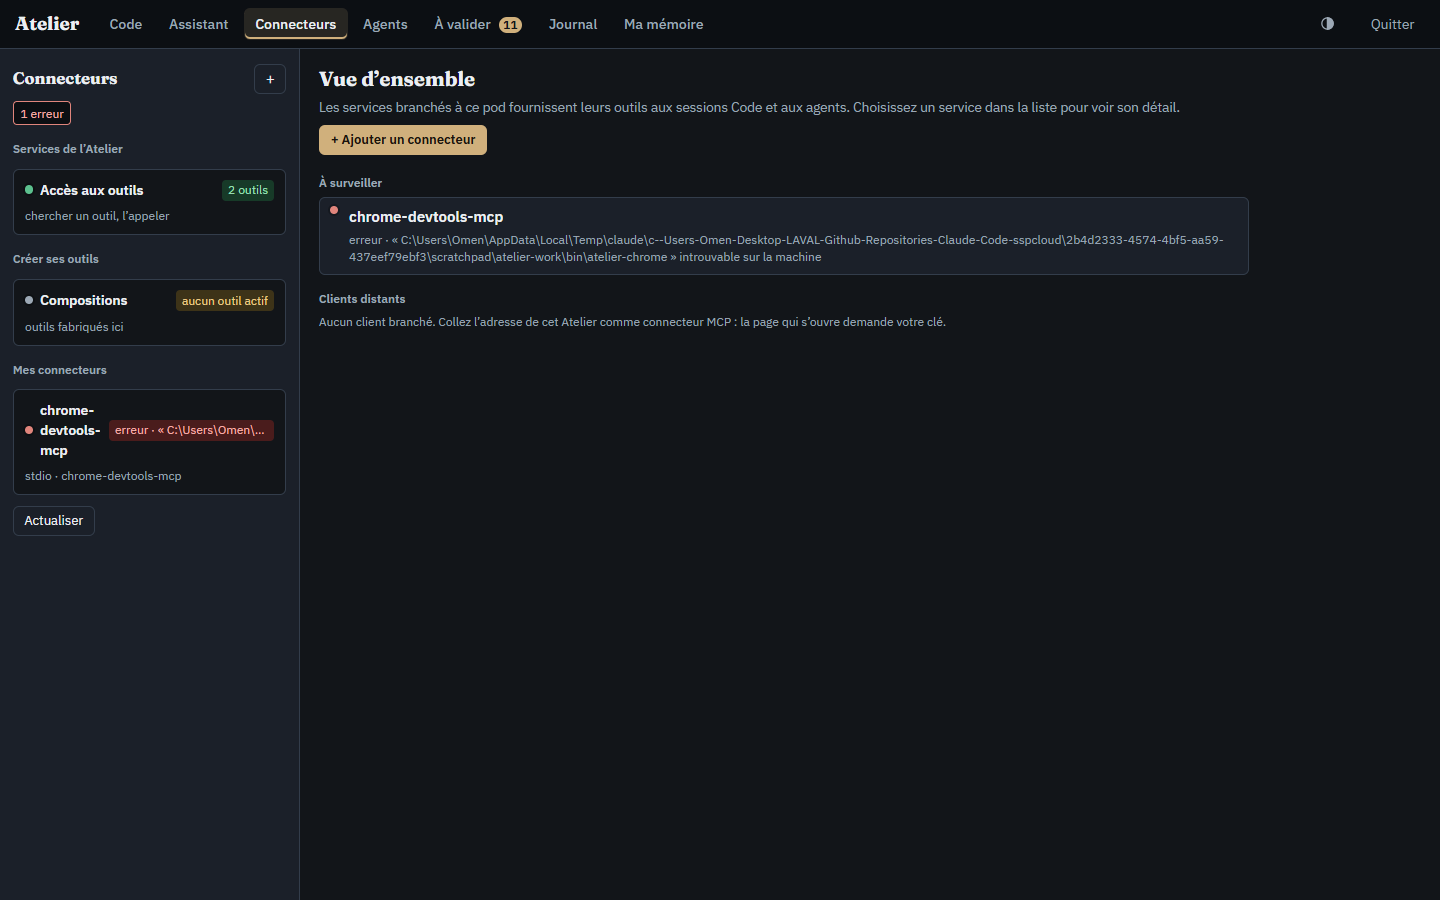
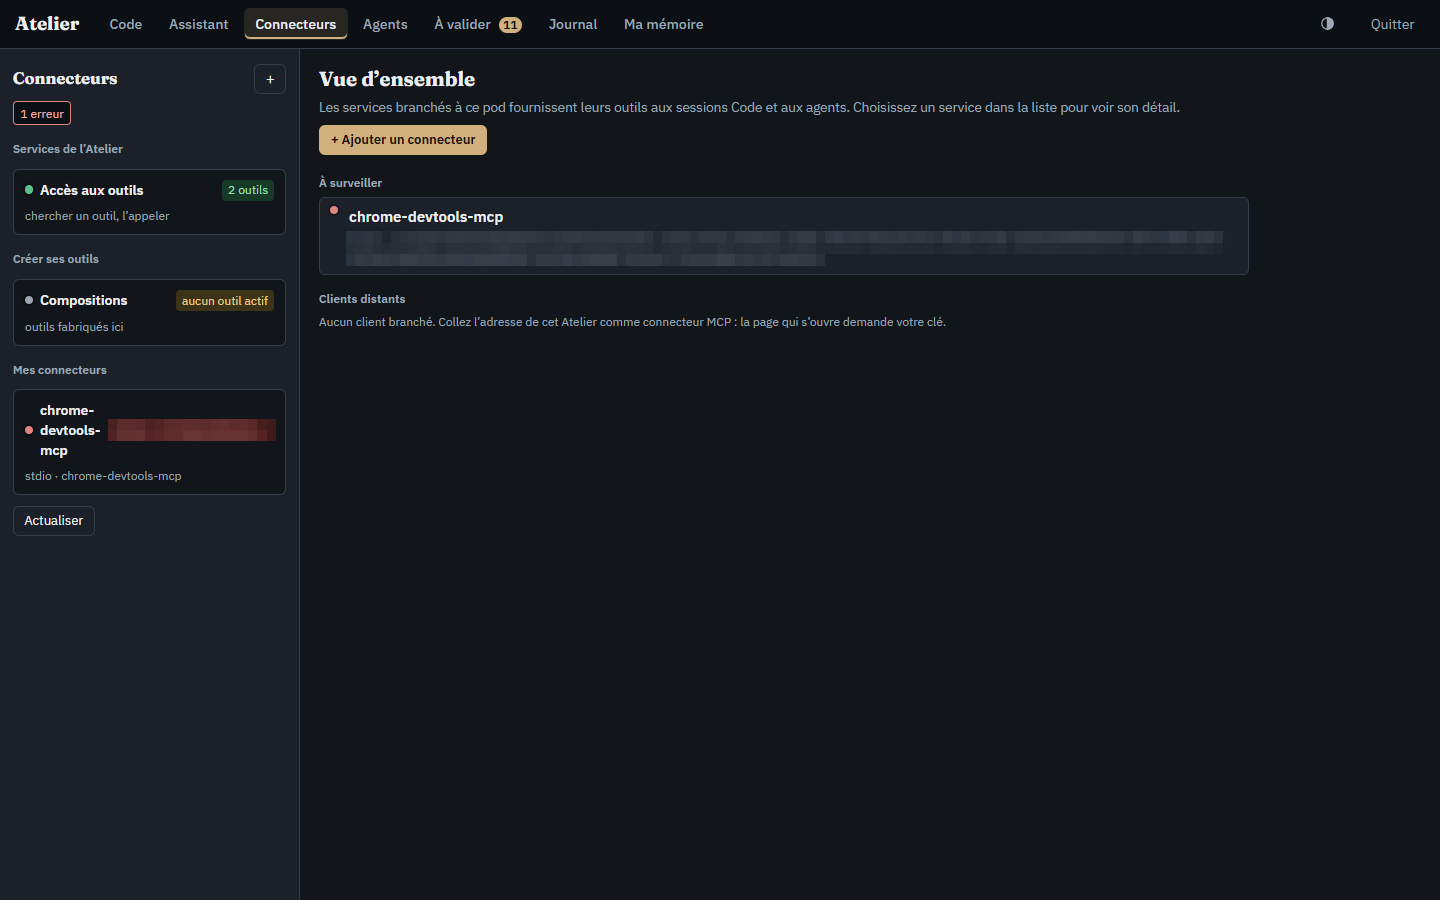
Neutraliser les adresses de pod et les chemins personnels dans la documentation et les captures
Les adresses nominatives deviennent user-<idep>, les chemins de la machine
de l'auteur disparaissent, et les captures d'interface qui montraient une
adresse de pod ou un chemin local sont floutées à ces endroits.

Changed region(s): [[0.25, 0.2489, 0.8438, 0.3111], [0.0625, 0.4667, 0.1875, 0.4978]]

diff --git a/atelier-src/mcp_gateway/config.py b/atelier-src/mcp_gateway/config.py
@@ -17,8 +17,8 @@ def utilisateur_du_pod() -> str:
 
     Mesuré sur SSPCloud : un pod ne reçoit **pas** de variable ONYXIA_USER —
     c'est le chart qui la pose, donc elle manque à toute installation faite en
-    ligne de commande. Le namespace, lui, est toujours monté : « user-nicolaslaval »
-    donne « nicolaslaval ».
+    ligne de commande. Le namespace, lui, est toujours monté : « user-jdupont »
+    donne « jdupont ».
 
     Sans cela, les URL du catalogue — bâties sur ${ONYXIA_USER} — se résolvent
     en « https://user--qgis… », une adresse fausse dont l'échec de sondage

diff --git a/atelier-src/tests/test_deploiement_schema.py b/atelier-src/tests/test_deploiement_schema.py
@@ -28,7 +28,7 @@ def test_sans_deploiement_le_projet_reste_valide() -> None:
     "deploiement",
     [
         {"pod": "proj-carte-jupyter-python-0"},
-        {"pod": "proj-carte-jupyter-python-0", "namespace": "user-nic01asfr", "gpu": True,
+        {"pod": "proj-carte-jupyter-python-0", "namespace": "user-jdupont", "gpu": True,
          "commande": "uvicorn app:app --port 8000", "port": 8000},
         {"service": "carte.service.yml"},
         {"service": "services/carte.service.yaml", "gpu": True},

diff --git a/docs/vision/panneau.md b/docs/vision/panneau.md
@@ -58,14 +58,14 @@ Tests : `tests/test_bureaux.py` (hôte réel et service factice du namespace dan
 
 ### Les services du namespace, découverts sur le pod (lecture seule, 26/09)
 
-Namespace `user-nic01asfr`. L'hôte des applications tourne dans le pod `proj-claude-code-jupyter-python-0` du même namespace : les noms courts des Services s'y résolvent.
+Namespace `user-<idep>` (le pod de mesure). L'hôte des applications tourne dans le pod `proj-claude-code-jupyter-python-0` du même namespace : les noms courts des Services s'y résolvent.
 
 | Service | Service Kubernetes et ports | Ce qui répond | Authentification |
 |---|---|---|---|
-| Blender (`blender-remote-mcp-0`, StatefulSet, `ghcr.io/nic01asfr/blender-remote-mcp:latest`) | `blender-remote-mcp` (ClusterIP) : **8100**, **6080** | 8100 : API (`/mcp`, `/desktop` = `/canvas`, `/stream/{user_id}`, `/api/session/info`, `/health`). 6080 : websockify avec le noVNC d'origine (`/vnc.html`, WebSocket `/websockify`, sous-protocole `binary`). Ingress `user-nic01asfr-blender-mcp` (8100) | 8100 : `/desktop` accepte le cookie `blender_token` égal au jeton porteur de l'entrée `blender` du pool (200 ; l'en-tête `Authorization` y est refusé : 401). 6080 : **aucune** (RFB 3.8, type de sécurité 1 « None ») |
+| Blender (`blender-remote-mcp-0`, StatefulSet, `ghcr.io/nic01asfr/blender-remote-mcp:latest`) | `blender-remote-mcp` (ClusterIP) : **8100**, **6080** | 8100 : API (`/mcp`, `/desktop` = `/canvas`, `/stream/{user_id}`, `/api/session/info`, `/health`). 6080 : websockify avec le noVNC d'origine (`/vnc.html`, WebSocket `/websockify`, sous-protocole `binary`). Ingress `user-<idep>-blender-mcp` (8100) | 8100 : `/desktop` accepte le cookie `blender_token` égal au jeton porteur de l'entrée `blender` du pool (200 ; l'en-tête `Authorization` y est refusé : 401). 6080 : **aucune** (RFB 3.8, type de sécurité 1 « None ») |
 | Bureau QGIS (`qgis-workspace-nic01asfr`) | `qgis-workspace-nic01asfr` (ClusterIP) : 8100, **8080**, **6080** | 8080 : API du bureau (`/api/layers`, `/api/screenshot`…) ; `/vnc` renvoie vers `http://localhost:6080/vnc.html` (inutilisable relayé). 6080 : websockify et noVNC, `/websockify` | 8080 et 6080 : **aucune** dans le cluster (`/api/layers` 200 sans jeton ; RFB type 1) |
-| Portail QGIS (`qgis-hub`) | `qgis-hub` (sans IP, headless) : **8888** | `/desk` (bureau noVNC encadré + discussion), `/workspace/vnc/…` et `/workspace/vnc/websockify` (relais vers le bureau). Ingress `user-nic01asfr-qgis` (http) | cookie `hub_api_key` égal à la clé `qgis_…` de l'entrée `qgis` du pool (`/desk` et `/workspace/vnc/vnc.html` : 200) ; sans : 401 JSON avec `portal_url`. La page `/desk` emploie des chemins **absolus** (`/static`, `/workspace`) |
-| n8n (Deployment `n8n`, `n8nio/n8n:2.38.6` ; conteneurs `n8n`, `mcp`, `portal`, `runners`) | `n8n` (ClusterIP) : **5678**, 3000, 3100 | 5678 : éditeur (`/healthz` 200). 3000 : serveur MCP (`n8n-mcp`). 3100 : portail d'actions. Ingress `user-nic01asfr-n8n`, `-n8n-mcp`, `-n8n-portail` | éditeur : la connexion utilisateur de n8n (`/rest/login` 401), pas de jeton de service. En interne, l'éditeur envoie `X-Frame-Options: SAMEORIGIN` (la mesure A6, faite par l'Ingress public, n'en voyait aucun) ; le relais le retire. Chemins **absolus** (`/assets`, `/rest`, `/static`) : `N8N_PATH` n'est pas réglé |
+| Portail QGIS (`qgis-hub`) | `qgis-hub` (sans IP, headless) : **8888** | `/desk` (bureau noVNC encadré + discussion), `/workspace/vnc/…` et `/workspace/vnc/websockify` (relais vers le bureau). Ingress `user-<idep>-qgis` (http) | cookie `hub_api_key` égal à la clé `qgis_…` de l'entrée `qgis` du pool (`/desk` et `/workspace/vnc/vnc.html` : 200) ; sans : 401 JSON avec `portal_url`. La page `/desk` emploie des chemins **absolus** (`/static`, `/workspace`) |
+| n8n (Deployment `n8n`, `n8nio/n8n:2.38.6` ; conteneurs `n8n`, `mcp`, `portal`, `runners`) | `n8n` (ClusterIP) : **5678**, 3000, 3100 | 5678 : éditeur (`/healthz` 200). 3000 : serveur MCP (`n8n-mcp`). 3100 : portail d'actions. Ingress `user-<idep>-n8n`, `-n8n-mcp`, `-n8n-portail` | éditeur : la connexion utilisateur de n8n (`/rest/login` 401), pas de jeton de service. En interne, l'éditeur envoie `X-Frame-Options: SAMEORIGIN` (la mesure A6, faite par l'Ingress public, n'en voyait aucun) ; le relais le retire. Chemins **absolus** (`/assets`, `/rest`, `/static`) : `N8N_PATH` n'est pas réglé |
 
 Constats de sécurité, à confier aux gardiens (rien n'a été changé) :
 
@@ -749,7 +749,7 @@ Code et pod (lecture seule, 25/09/2026) : `atelier-src/mcp_gateway/atelier/`
 `web/js/api.js`, `artifacts.py`, `artefacts_servis.py`, `apps/proxy.py`,
 `relais_ws.py`, `chrome_proxy.py`, `navigateur.py`, `events.py`,
 `outils_conversation.py`) ; `kubectl get svc,ingress,pods` et sondes HTTP
-internes dans le namespace `user-nic01asfr` ; dépôt `qgis-sspcloud`
+internes dans le namespace `user-<idep>` ; dépôt `qgis-sspcloud`
 (`hub/hub/main.py`, `hub/templates/desk.html`).
 
 Standards et produits (consultés le 25/09/2026) :

diff --git a/docs/vision/mesures-vague1.md b/docs/vision/mesures-vague1.md
@@ -201,13 +201,13 @@ Chaîne jusqu'au premier mot, en sommant des mesures :
 
 | # | Affirmation | Résultat | Statut |
 |---|---|---|---|
-| A5 | Routes `/desktop`, `/canvas`, `/stream/{user_id}` de `blender-remote-mcp` | Elles existent sur `blender-remote-mcp:8100`, lues dans son `/openapi.json` sans jeton : **`/canvas` est un alias de `/desktop`** (bureau plein écran, auth par `?token=` ou cookie `blender_token`, `embed=1` « réservé à un futur hub », contrat d'iframe). **`/stream/{user_id}` est un flux MJPEG** : le porteur doit prouver son identité, l'identifiant du chemin ne suffit pas. noVNC écoute sur `:6080` dans le cluster. L'hôte public `user-nic01asfr-blender-remote-mcp` répond 404 : pas d'Ingress à ce nom | mesuré (contrat) ; rendu non essayé |
-| A6 | n8n encadrable | L'éditeur (`user-nic01asfr-n8n…`, titre « n8n.io ») n'envoie **ni `X-Frame-Options` ni `frame-ancestors`**, seulement une `Content-Security-Policy-Report-Only` sans directive de cadre. Il est donc encadrable **sans** `N8N_CONTENT_SECURITY_POLICY`, mais aussi **par n'importe qui**. L'hôte `n8n-mcp` envoie `X-Frame-Options: DENY` | en-têtes mesurés ; iframe réelle dans Chrome et Firefox supposée |
+| A5 | Routes `/desktop`, `/canvas`, `/stream/{user_id}` de `blender-remote-mcp` | Elles existent sur `blender-remote-mcp:8100`, lues dans son `/openapi.json` sans jeton : **`/canvas` est un alias de `/desktop`** (bureau plein écran, auth par `?token=` ou cookie `blender_token`, `embed=1` « réservé à un futur hub », contrat d'iframe). **`/stream/{user_id}` est un flux MJPEG** : le porteur doit prouver son identité, l'identifiant du chemin ne suffit pas. noVNC écoute sur `:6080` dans le cluster. L'hôte public `user-<idep>-blender-remote-mcp` répond 404 : pas d'Ingress à ce nom | mesuré (contrat) ; rendu non essayé |
+| A6 | n8n encadrable | L'éditeur (`user-<idep>-n8n…`, titre « n8n.io ») n'envoie **ni `X-Frame-Options` ni `frame-ancestors`**, seulement une `Content-Security-Policy-Report-Only` sans directive de cadre. Il est donc encadrable **sans** `N8N_CONTENT_SECURITY_POLICY`, mais aussi **par n'importe qui**. L'hôte `n8n-mcp` envoie `X-Frame-Options: DENY` | en-têtes mesurés ; iframe réelle dans Chrome et Firefox supposée |
 | A8 | Plugins Claude Code dans le CLI 2.1.281 | `claude plugin marketplace add <dépôt git local>`, puis `install` et `list` : OK. La commande `/essai:bonjour` du plugin s'exécute en `-p`. **Avec `--strict-mcp-config`, le serveur MCP du plugin n'est pas chargé** : seule l'entrée de `--mcp-config` l'est. L'installation écrit dans les réglages **utilisateur** du dossier de config | mesuré (CLI) ; extension VS Code supposée |
 | A9 | Porte dormante : « la nuit rien » | Sur 7 jours, `routine-runs.jsonl` compte 34 passages (tous `paradox-research`, trigger `cron-routine-4h`), dont **11 entre 0 h et 6 h** (heure de Paris), et 7 en échec. En mode `any-named`, toute session nommée enregistrée garde wikichat actif. La porte n'est **pas** une plage horaire | mesuré |
 | A10 | `ANTHROPIC_CUSTOM_HEADERS` reçu au relais | `X-Atelier-Origine: mesure-vague1` est arrivé sur les 2 requêtes, à l'entrée du relais. Le relais le transmet tel quel à l'amont, mais **ne le lit ni ne le journalise** : il ne journalise aucun en-tête | mesuré en `-p` ; VS Code et wikichat supposés (même mécanisme d'env) |
 | A12 | `UserPromptSubmit` avec `additionalContext` en `-p` stream-json | Un seul processus vivant, 2 tours, même `session_id` : le hook tourne **à chaque tour** (compteur à 2) et le modèle cite le contexte du tour (ARTICHAUT, puis BETTERAVE) | mesuré en `-p` ; VS Code supposé |
-| A13 | Hôte des applications joignable | `https://user-nic01asfr-atelier-apps.user.lab.sspcloud.fr/_sante` renvoie **200** `{"status":"ok","service":"atelier-apps"}` ; `/` renvoie 404 ; écoute locale sur `:8788` | mesuré |
+| A13 | Hôte des applications joignable | `https://user-<idep>-atelier-apps.user.lab.sspcloud.fr/_sante` renvoie **200** `{"status":"ok","service":"atelier-apps"}` ; `/` renvoie 404 ; écoute locale sur `:8788` | mesuré |
 
 ## 6. Ce que cela change
 

diff --git a/docs/onyxia-projet.md b/docs/onyxia-projet.md
@@ -10,14 +10,13 @@ déploiement d'un projet » de `docs/vision/profils-acces.md` et corrige l'écar
 
 - **Entrée du pool** : `Onyxia` dans `~/work/mcp/gateway.db` (table `sidecars`), préfixe
   `onyxia`, transport `streamable-http`, adresse
-  `https://user-nic01asfr-passerelle-mcp.user.lab.sspcloud.fr/mcp`. Le jeton est dans les
+  `https://user-<idep>-passerelle-mcp.user.lab.sspcloud.fr/mcp`. Le jeton est dans les
   en-têtes de la déclaration ; il n'est reproduit nulle part ici.
 - **Pod** : `passerelle-mcp-dev-jupyter-python-0`, un service Jupyter du namespace
-  `user-nic01asfr`, exposé par l'ingress Onyxia. Le compte de service du pod de l'Atelier ne
+  `user-<idep>`, exposé par l'ingress Onyxia. Le compte de service du pod de l'Atelier ne
   peut pas lire ses pods (`kubectl get pods` refusé) : son lancement exact n'est pas vérifié.
-- **Code** : `sspcloud-mcp` 0.2.0 (`/health` le confirme), dépôt local
-  `C:/Users/Omen/Desktop/LAVAL/Github Repositories/sspcloud_mcp`, remotes
-  `gitlab.cerema.fr/mcp/sspcloud_mcp` et `github.com/nic01asFr/sspcloud-mcp`. Le transport
+- **Code** : `sspcloud-mcp` 0.2.0 (`/health` le confirme), dépôt
+  `github.com/nic01asFr/sspcloud-mcp` (avec un miroir GitLab). Le transport
   HTTP est `sspcloud_mcp/server_http.py` (bibliothèque standard, `ThreadingHTTPServer`) ; les
   outils sont dans `sspcloud_mcp/tools.py`.
 - **Côté Atelier** : la passerelle s'y connecte une fois au démarrage (`upstream/pool.py`) et
@@ -111,7 +110,7 @@ Dans `.atelier/projet.json` (schéma strict de `commandes/structure.py`, classe 
 ```json
 "deploiement": {
   "pod": "proj-carte-jupyter-python-0",
-  "namespace": "user-nic01asfr",
+  "namespace": "user-jdupont",
   "gpu": true,
   "commande": "uvicorn app:app --port 8000",
   "port": 8000

diff --git a/docs/vision/plan-implementation.md b/docs/vision/plan-implementation.md
@@ -96,7 +96,7 @@ réparations sont proposées par des agents dédiés, lancés par l'Atelier.
 
 | Équipe | Dépôt, worktree, branche | Possède | Ajoute seulement |
 |---|---|---|---|
-| W | wikichat, `C:/Users/Omen/Desktop/LAVAL/wikichat-lot-w`, `lot-w` (depuis `atelier-coherence`) | tout le dépôt wikichat | — |
+| W | wikichat, `…/wikichat-lot-w`, `lot-w` (depuis `atelier-coherence`) | tout le dépôt wikichat | — |
 | F | Atelier, `…/atelier-fondations`, `fondations` | `mcp_gateway/atelier/commandes/` (nouveau), `journal.py`, `decisions.py`, `projects.py`, `project_context.py`, `git_repos.py`, `bin/atelier-relancer`, `bin/atelier-verifier-coherence`, `install/`, `mcp_gateway/mcp/gateway.py` (vérification de classe) | une ligne dans `api.py` et `config.py` |
 | P | Atelier, `…/atelier-panneau`, `panneau` | `mcp_gateway/atelier/web/`, `artifacts.py`, `artefacts_servis.py`, `apps/` (dont `passage.py`, `proxy.py`), `outils_conversation.py` | une ligne dans `api.py` |
 | G | Atelier, `…/atelier-gardiens`, `gardiens` | `mcp_gateway/gardiens/` (nouveau), `atelier-src/mcp_gateway/atelier/consignes/socle.md` (section hooks), hooks du socle | une ligne dans `install/atelier-init.sh`, coordonnée avec F |

diff --git a/docs/atelier-mcp-distant.md b/docs/atelier-mcp-distant.md
@@ -74,7 +74,7 @@ qui emporte un client branché, en-tête `WWW-Authenticate` retiré. Suite compl
 **Critères d'acceptation** — mesurés sur le pod le 20 septembre 2026, service relancé sur le
 code déployé :
 
-1. ✅ `/mcp` sans jeton → 401 portant `resource_metadata` pointant l'hôte public ; `/.well-known/oauth-protected-resource` → 200 annonçant `https://user-nic01asfr-atelier.user.lab.sspcloud.fr`
+1. ✅ `/mcp` sans jeton → 401 portant `resource_metadata` pointant l'hôte public ; `/.well-known/oauth-protected-resource` → 200 annonçant `https://user-<idep>-atelier.user.lab.sspcloud.fr`
 2. ✅ `/register` d'un client inconnu → 201, puis `/authorize` → page de consentement avec champ clé, **aucune redirection, aucun code**
 3. ✅ Clé invalide → 401 ; clé de l'Atelier → 302 vers la destination déclarée, avec code
 4. ⚠ Second branchement : **tenu par la suite, pas mesurable en loopback**. Le cookie de session est posé `Secure` ; un client en clair ne le renvoie jamais (0 cookie retenu côté client, 58 sessions ouvertes côté base). Se verra au premier branchement réel, dans le navigateur

diff --git a/docs/vision/assistant-cadre.md b/docs/vision/assistant-cadre.md
@@ -95,8 +95,7 @@ et applications. On doit donc envisager un seul modèle :
 - `docs/coherence-projet.md` : une seule source par sujet ; les lots A à H (B : `SessionStart`
   et `contexte.md` ; C : une identité par conversation ; D : lancements par l'Atelier) ; la
   compaction native par le relais LLM.
-- wikichat, branche `atelier-coherence` (worktree
-  `C:/Users/Omen/Desktop/LAVAL/wikichat-atelier-coherence`) : hooks `SessionStart`,
+- wikichat, branche `atelier-coherence` (dans son propre worktree) : hooks `SessionStart`,
   `UserPromptSubmit` et `Stop`, briefing plafonné, fils de dialogue, suivi de projet lu dans
   les fichiers (`docs/hooks-et-dialogue.md`).
 - Vision : `synthese.md`, `panneau.md`, `ecosysteme.md`, `gardiens.md`,

diff --git a/docs/consignes/lecteur-grist.md b/docs/consignes/lecteur-grist.md
@@ -147,7 +147,7 @@ dans `serveur/` du projet (paquet `lecteur_grist`), installé par
   le même `ATELIER_AUTEUR`. `--auth entete --entete-utilisateur
   X-Atelier-Utilisateur` : l'Atelier envoie `proprietaire`, traduit par la
   table `identites` d'`application.json`. Adresse :
-  `https://user-nic01asfr-atelier-apps.user.lab.sspcloud.fr/projet-sans-nom-5/application/`.
+  `https://user-<idep>-atelier-apps.user.lab.sspcloud.fr/projet-sans-nom-5/application/`.
   Vérification de bout en bout sans navigateur ouvert : passage par code
   (`POST /v1/auth/cookie` avec la clé lue sur le disque, jamais affichée,
   puis `…/ouvrir`) ; le cookie `__Host-atelier_apps` ne se montre pas.

diff --git a/docs/navigateur-atelier.md b/docs/navigateur-atelier.md
@@ -240,7 +240,7 @@ rend, pour un fournisseur qui le servirait vraiment.
 **Remplaçant structuré** : le service **WebTools** (SearXNG + extraction +
 recherche approfondie) répond dans le namespace (`webtools-mcp-svc:8090/mcp`)
 mais exige désormais **OAuth** (`401`, métadonnées sur
-`user-nic01asfr-webtools-mcp.user.lab.sspcloud.fr`). À brancher dans le pool
+`user-<idep>-webtools-mcp.user.lab.sspcloud.fr`). À brancher dans le pool
 comme connecteur OAuth quand son contrat sera figé ; ses outils passeront
 alors par le même chemin que les autres connecteurs. En attendant : le
 navigateur sur DuckDuckGo, consigne donnée à chaque agent dans la section

diff --git a/docs/atelier-applications.md b/docs/atelier-applications.md
@@ -9,7 +9,7 @@ l'Atelier).
 
 1. Aucun contenu produit par un agent ne s'exécute dans l'origine de l'Atelier.
    Tout passe par une **seconde origine** : `https://<premier-label>-apps.<domaine>`
-   (ex. `user-nic01asfr-atelier-apps.user.lab.sspcloud.fr`), un chemin par
+   (ex. `user-<idep>-atelier-apps.user.lab.sspcloud.fr`), un chemin par
    artefact `/<slug>/<nom>/`. Un seul niveau de sous-domaine : couvert par
    le certificat wildcard de la classe d'Ingress `onyxia`.
 2. `sspcloud.fr` n'est pas dans la Public Suffix List : tous les hôtes
